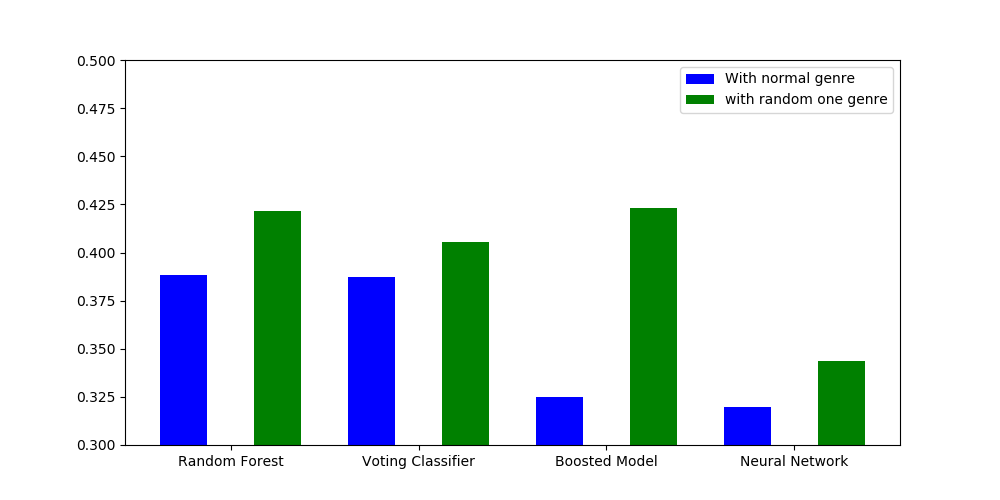
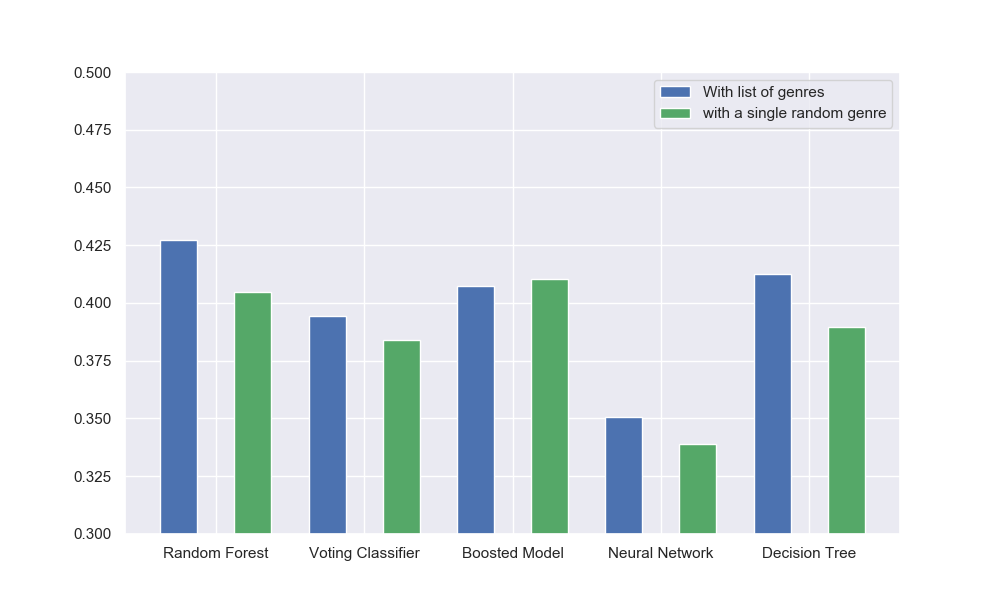
Changed the plots in ML.py according to Shayna's order

diff --git a/movie-data/ML.py b/movie-data/ML.py
@@ -3,7 +3,7 @@ import pandas as pd
 import matplotlib.pyplot as plt
 import sys
 import random
-#import seaborn
+import seaborn
 from sklearn.model_selection import train_test_split
 from sklearn.naive_bayes import GaussianNB
 from sklearn.preprocessing import FunctionTransformer
@@ -17,7 +17,7 @@ from sklearn.svm import SVC
 from sklearn.preprocessing import StandardScaler
 from sklearn.neural_network import MLPClassifier
 
-#seaborn.set()
+seaborn.set()
 
 data = pd.read_csv(sys.argv[1], index_col = 0)
 # print(data.head())
@@ -78,6 +78,11 @@ rand_forest_model = make_pipeline(
         max_depth=8, min_samples_leaf=10)
     )
 
+rand_forest_model2 = make_pipeline(
+        RandomForestClassifier(n_estimators=100,
+        max_depth=8, min_samples_leaf=10)
+    )
+
 voting_model = make_pipeline(
     StandardScaler(),
     VotingClassifier([
@@ -89,6 +94,19 @@ voting_model = make_pipeline(
     ('tree3', RandomForestClassifier(n_estimators=100, max_depth=8, min_samples_leaf=10)),
     ])
 )
+
+voting_model2 = make_pipeline(
+    StandardScaler(),
+    VotingClassifier([
+    ('nb', GaussianNB()),
+    ('knn', KNeighborsClassifier(10)),
+    ('svm', SVC(kernel='linear', C=2.0)),
+    ('tree1', DecisionTreeClassifier(max_depth=10)),
+    ('tree2', DecisionTreeClassifier(min_samples_leaf=10)),
+    ('tree3', RandomForestClassifier(n_estimators=100, max_depth=8, min_samples_leaf=10)),
+    ])
+)
+
 
 
 def trees(n):
@@ -131,6 +149,13 @@ Neural_model = MLPClassifier(solver='lbfgs', hidden_layer_sizes=(2,2), activatio
 # print("Using list of genres as unique genres\n")
 
 
+Boosting_model2 = GradientBoostingClassifier(n_estimators = 100, max_depth = 3, min_samples_leaf = 5)
+
+
+Neural_model2 = MLPClassifier(solver='lbfgs', hidden_layer_sizes=(2,2), activation='logistic')
+
+
+
 
 rand_forest_model.fit(X_train, y_train)
 # print("Random forest classifier: ", rand_forest_model.score(X_valid, y_valid)) # 0.42461340206185566
@@ -145,36 +170,41 @@ Neural_model.fit(X_train, y_train)
 # print("Neural network: ", Neural_model.score(X_valid, y_valid)) # 0.33698453608247425
 
 
-rand_forest_model.fit(X_train_2, y_train_2)
+rand_forest_model2.fit(X_train_2, y_train_2)
 # print("Random forest classifier: ", rand_forest_model.score(X_valid_2, y_valid_2)) # 0.41365979381443296
 
-voting_model.fit(X_train_2, y_train_2)
+voting_model2.fit(X_train_2, y_train_2)
 # print("Voting classifier: ", voting_model.score(X_valid_2, y_valid_2)) # 0.4117268041237113
 
-Boosting_model.fit(X_train_2, y_train_2)
+Boosting_model2.fit(X_train_2, y_train_2)
 # print("Boosted model: ", Boosting_model.score(X_valid_2, y_valid_2)) # 0.41301546391752575
 
-Neural_model.fit(X_train_2, y_train_2)
+Neural_model2.fit(X_train_2, y_train_2)
 # print("Neural network: ", Neural_model.score(X_valid_2, y_valid_2)) # 0.3389175257731959
 
+tree = DecisionTreeClassifier(max_depth=6)
+tree.fit(X_train, y_train)
+
+tree2 = DecisionTreeClassifier(max_depth=6)
+tree2.fit(X_train_2, y_train_2)
 
 # scores = pd.DataFrame()
 
 df = pd.DataFrame()
-df['scores1'] = pd.Series([rand_forest_model.score(X_valid, y_valid), voting_model.score(X_valid, y_valid), Boosting_model.score(X_valid, y_valid), Neural_model.score(X_valid, y_valid)])
+df['scores1'] = pd.Series([rand_forest_model.score(X_valid, y_valid), voting_model.score(X_valid, y_valid), Boosting_model.score(X_valid, y_valid), Neural_model.score(X_valid, y_valid), tree.score(X_valid, y_valid)])
 
-df['scores2'] = pd.Series([rand_forest_model.score(X_valid_2, y_valid_2), voting_model.score(X_valid_2, y_valid_2), Boosting_model.score(X_valid_2, y_valid_2), Neural_model.score(X_valid_2, y_valid_2)])
+df['scores2'] = pd.Series([rand_forest_model2.score(X_valid_2, y_valid_2), voting_model2.score(X_valid_2, y_valid_2), Boosting_model2.score(X_valid_2, y_valid_2), Neural_model2.score(X_valid_2, y_valid_2), tree2.score(X_valid_2, y_valid_2)])
 
-df['labels'] = pd.Series(["Random Forest", "Voting Classifier", "Boosted Model", "Neural Network"])
+df['labels'] = pd.Series(["Random Forest", "Voting Classifier", "Boosted Model", "Neural Network", "Decision Tree"])
 
-fig = plt.figure(figsize=(10,5))
+fig = plt.figure(figsize=(10,6))
 ax = plt.subplot(111)
 plt.ylim(0.3,0.5)
-one = ax.bar([0.75, 1.75, 2.75, 3.75], df['scores1'], width = 0.25, color = 'b', align = 'center')
-two = ax.bar([1.25, 2.25, 3.25, 4.25], df['scores2'], width = 0.25, color = 'g', align = 'center')
-ax.set_xticks([1,2,3,4])
+one = ax.bar([0.75, 1.75, 2.75, 3.75, 4.75], df['scores1'], width = 0.25, color = 'b', align = 'center')
+two = ax.bar([1.25, 2.25, 3.25, 4.25, 5.25], df['scores2'], width = 0.25, color = 'g', align = 'center')
+ax.set_xticks([1,2,3,4, 5])
 ax.set_xticklabels(df['labels'])
-ax.legend([one, two], ['With normal genre', "with random one genre"])
+ax.legend([one, two], ['With list of genres', "with a single random genre"])
 # plt.xlabel('Model')
 # plt.ylabel('Accuracy Score')
 # plt.title('Model vs. Accuracy Score')
